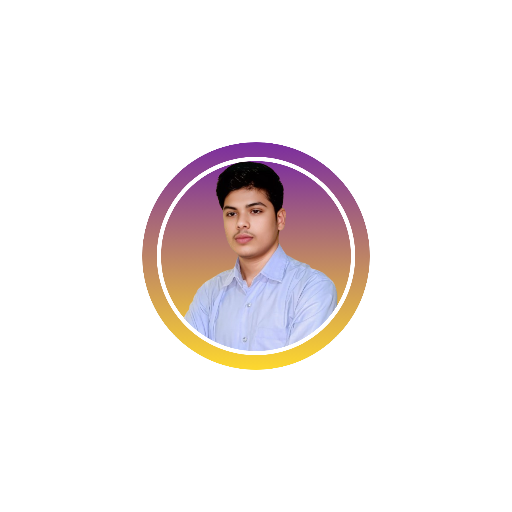
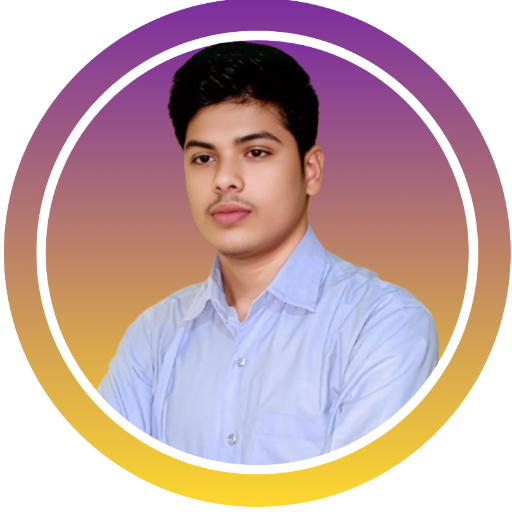
index file anda uther file update and img folder update

diff --git a/index.html b/index.html
@@ -403,15 +403,14 @@
     </section>
 
     <!-- ================== sckils section ========================== -->
-    <section class="roadmap-section">
+    <section class="roadmap-section" data-aos="fade-up">
 
         <!-- Left Side: Skills -->
         <div class="skills-left">
-            <h2>Full Stack Developer Roadmap</h2>
             <div class="skills-wrapper">
 
                 <!-- Frontend -->
-                <div class="skill-card skill-html unlocked" data-key="html" data-color="#E34F26">
+                <div class="skill-card skill-html unlocked" data-key="html" data-color="#E34F26" data-aos="fade-up">
                     <div class="skill-info"><i class="fab fa-html5"></i><span>HTML</span></div>
                     <div class="progress-wrapper">
                         <div class="progress-bar">
@@ -422,7 +421,7 @@
                     <i class="fas fa-lock-open unlock-icon"></i>
                 </div>
 
-                <div class="skill-card skill-css unlocked" data-key="css" data-color="#1572B6">
+                <div data-aos="fade-up" class="skill-card skill-css unlocked" data-key="css" data-color="#1572B6">
                     <div class="skill-info"><i class="fab fa-css3-alt"></i><span>CSS</span></div>
                     <div class="progress-wrapper">
                         <div class="progress-bar">
@@ -433,7 +432,7 @@
                     <i class="fas fa-lock-open unlock-icon"></i>
                 </div>
 
-                <div class="skill-card skill-js unlocked" data-key="js" data-color="#F7DF1E">
+                <div data-aos="fade-up" class="skill-card skill-js unlocked" data-key="js" data-color="#F7DF1E">
                     <div class="skill-info"><i class="fab fa-js"></i><span>JavaScript</span></div>
                     <div class="progress-wrapper">
                         <div class="progress-bar">
@@ -444,7 +443,7 @@
                     <i class="fas fa-lock-open unlock-icon"></i>
                 </div>
 
-                <div class="skill-card skill-react running" data-key="react" data-color="#61DAFB">
+                <div data-aos="fade-up" class="skill-card skill-react running" data-key="react" data-color="#61DAFB">
                     <div class="skill-info"><i class="fab fa-react"></i><span>React</span></div>
                     <div class="progress-wrapper">
                         <div class="progress-bar">
@@ -456,7 +455,7 @@
                 </div>
 
                 <!-- Backend -->
-                <div class="skill-card skill-node locked" data-key="nodejs" data-color="#339933">
+                <div data-aos="fade-up" class="skill-card skill-node locked" data-key="nodejs" data-color="#339933">
                     <div class="skill-info"><i class="fab fa-node"></i><span>Node.js</span></div>
                     <div class="progress-wrapper">
                         <div class="progress-bar">
@@ -467,7 +466,7 @@
                     <i class="fas fa-lock unlock-icon"></i>
                 </div>
 
-                <div class="skill-card skill-express locked" data-key="express" data-color="#000000">
+                <div data-aos="fade-up" class="skill-card skill-express locked" data-key="express" data-color="#000000">
                     <div class="skill-info"><i class="fas fa-server"></i><span>Express</span></div>
                     <div class="progress-wrapper">
                         <div class="progress-bar">
@@ -478,7 +477,7 @@
                     <i class="fas fa-lock unlock-icon"></i>
                 </div>
 
-                <div class="skill-card skill-mongo locked" data-key="mongodb" data-color="#47A248">
+                <div data-aos="fade-up" class="skill-card skill-mongo locked" data-key="mongodb" data-color="#47A248">
                     <div class="skill-info"><i class="fas fa-database"></i><span>MongoDB</span></div>
                     <div class="progress-wrapper">
                         <div class="progress-bar">
@@ -489,7 +488,7 @@
                     <i class="fas fa-lock unlock-icon"></i>
                 </div>
 
-                <div class="skill-card skill-git locked" data-key="git" data-color="#F05032">
+                <div data-aos="fade-up" class="skill-card skill-git locked" data-key="git" data-color="#F05032">
                     <div class="skill-info"><i class="fab fa-git-alt"></i><span>Git</span></div>
                     <div class="progress-wrapper">
                         <div class="progress-bar">
@@ -504,17 +503,17 @@
         </div>
 
         <!-- Right Side: Profile & Skill Details -->
-        <div class="details-right">
+        <div class="details-right" data-aos="fade-up">
             <div class="profile">
-                <div class="profile-bg">
-                    <img class="bg-img" src="img/nitesh Bagrunde.png" alt="Profile Background" />
+                <div class="profile-bg" data-aos="zoom-in">
+                    <img data-aos="zoom-in" class="bg-img" src="img/nitesh Bagrunde.png" alt="Profile Background" />
                 </div>
-                <div class="profile-main">
-                    <img class="profile-img" src="img/Nitesh.png" alt="Profile Picture" />
-                    <div class="profile-info">
-                        <h3>Nitesh Amule</h3>
-                        <div class="mayptag">
-                        <p>
+                <div class="profile-main" data-aos="zoom-in">
+                    <img data-aos="zoom-in" class="profile-img" src="img/Nitesh.png" alt="Profile Picture" />
+                    <div class="profile-info" data-aos="zoom-in">
+                        <h3 data-aos="fade-up">Nitesh Amule</h3>
+                        <div class="mayptag" data-aos="fade-up">
+                        <p data-aos="fade-up">
                             Bhopal, MP<br>
                             10th (2020) • 12th Commerce (2022)<br>
                             <strong>Diploma CSE (2024–27)</strong> | SATI College, Vidisha (RGPV)<br>
@@ -523,16 +522,16 @@
                         </div>
                     </div>
                 </div>
-                <p><strong>Learning Web Development & Programming</strong></p>
-                <p>Certificates:</p>
-                <div class="certificates">
+                <p data-aos="fade-up"><strong>Learning Web Development & Programming</strong></p>
+                <p data-aos="fade-up">Certificates:</p>
+                <div class="certificates" data-aos="fade-up">
                     <button style="background: yellow; color: black;" class="cert-btn" data-url="Certificate/Nitesh JS Certifecate.pdf">JavaScript Certificate</button>
                     <button class="cert-btn" data-url="Certificate/React.pdf">React Certificate</button>
                 </div>
             </div>
-            <h3>Skill Details</h3>
-            <div class="skill-details">
-                <p>Hover over any skill to see details here.</p>
+            <h3 data-aos="fade-up">Skill Details</h3>
+            <div class="skill-details" data-aos="fade-up">
+                <p data-aos="fade-up">Hover over any skill to see details here.</p>
             </div>
         </div>
 

diff --git a/coding-grni.css b/coding-grni.css
@@ -5,7 +5,7 @@
     display: flex;
     gap: 20px;
     padding: 20px;
-    background: #f9f9f9;
+    background: #eef1fc;
     border-radius: 20px;
     font-family: "Poppins", sans-serif;
     color: #111;
@@ -351,10 +351,11 @@
 }
 
 .skill-details {
-    background: #f1f1f1;
+    /* background: #f1f1f1; */
     padding: 10px;
     border-radius: 10px;
     min-height: 150px;
+    overflow-y: auto;
 
 
 }
@@ -382,5 +383,6 @@
 
     .profile-info {
         width: 100%;
+        overflow-y: auto;
     }
 }

diff --git a/coding-garni.js b/coding-garni.js
@@ -13,7 +13,7 @@ const detailsData = {
 };
 
 cards.forEach(card => {
-    card.addEventListener("mouseenter", () => {
+    card.addEventListener("click", () => {
         const key = card.dataset.key;
         skillDetails.innerHTML = `<p>${detailsData[key]}</p>`;
     });
